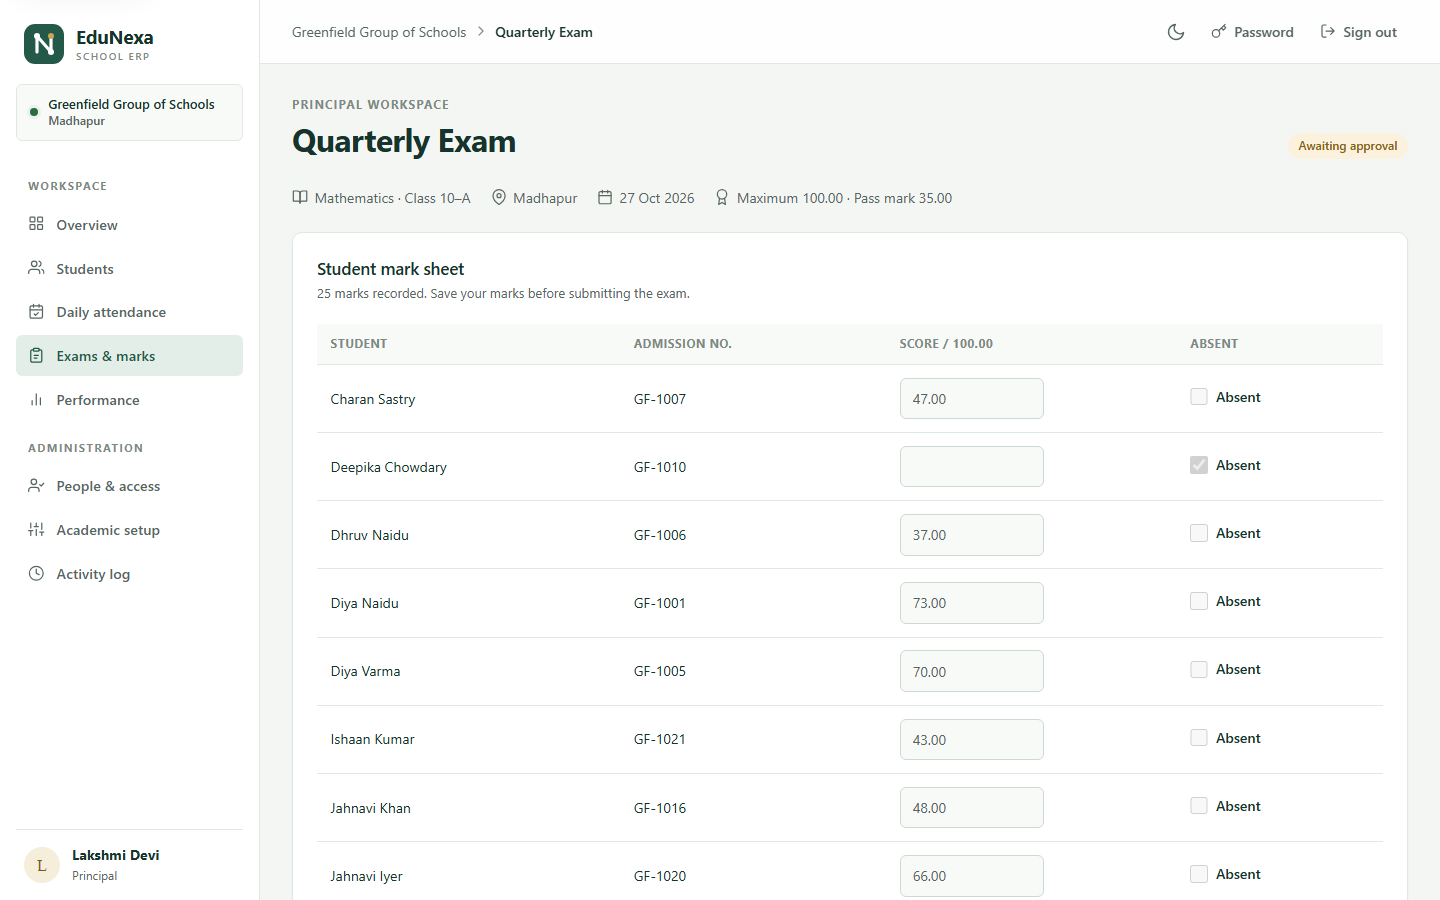
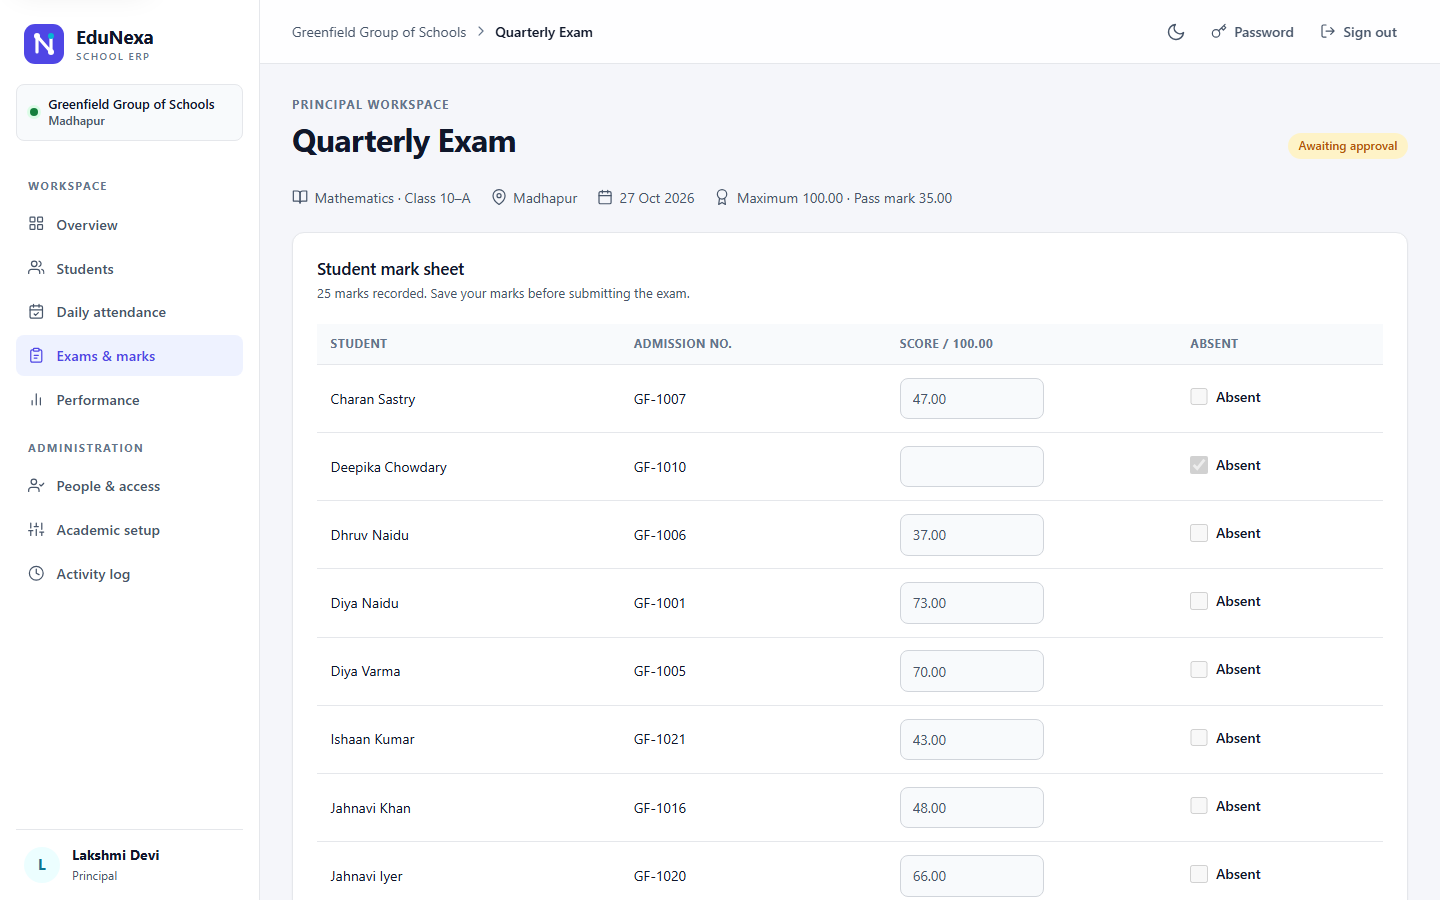
style(ui): switch to an indigo, slate and cyan palette
The green-and-gold theme read as dated. Because every colour lives in
static/css/tokens.css, the new palette is mostly a token swap:

- Indigo primary (#4f46e5 light, #818cf8 dark), slate neutrals, a cyan
  accent, and Tailwind-style status colours for success, warning,
  danger and info. Dark mode uses a deep slate background (#0b0f19).
- Headings use the system sans-serif instead of a light serif, with
  heavier weight and tighter letter-spacing.
- Sign-in panel: an indigo gradient with a white logo tile and cyan
  accents. The favicon and print colours follow.
- README screenshots refreshed; the DESIGN.md design-system note updated.

No template or Python changes. Tests: 81 passed, 2 PostgreSQL-only skipped.

diff --git a/static/css/tokens.css b/static/css/tokens.css
@@ -1,121 +1,121 @@
 /* Design tokens: every colour, font, radius and shadow used by EduNexa.
    Dark mode redefines only these values, so components never need their own dark rules.
-   The theme follows the operating system unless the person picks one (html[data-theme]). */
+   The theme follows the operating system unless the person picks one (html[data-theme]).
+   Palette: indigo for actions, slate neutrals, a cyan accent. */
 
 :root {
   color-scheme: light;
 
   --font-sans: system-ui, -apple-system, "Segoe UI", Roboto, "Helvetica Neue", Arial, sans-serif;
-  --font-display: "Iowan Old Style", "Palatino Linotype", Palatino, Georgia, serif;
+  --font-display: var(--font-sans);
   --font-mono: ui-monospace, "Cascadia Code", "SFMono-Regular", Consolas, monospace;
 
-  --radius-sm: 6px;
-  --radius-md: 10px;
+  --radius-sm: 8px;
+  --radius-md: 12px;
   --radius-lg: 16px;
   --radius-pill: 999px;
   --sidebar-width: 260px;
   --topbar-height: 64px;
 
-  --color-bg: #f4f6f4;
+  --color-bg: #f5f6fa;
   --color-surface: #ffffff;
-  --color-surface-muted: #f8faf8;
-  --color-surface-tint: #edf3ef;
-  --color-border: #e1e8e3;
-  --color-border-strong: #cdd8d0;
-  --color-text: #17342c;
-  --color-text-muted: #56675f;
-  --color-text-subtle: #7b8a82;
+  --color-surface-muted: #f8fafc;
+  --color-surface-tint: #eef2ff;
+  --color-border: #e5e7eb;
+  --color-border-strong: #d1d5db;
+  --color-text: #0f172a;
+  --color-text-muted: #475569;
+  --color-text-subtle: #64748b;
 
-  --color-primary: #24594a;
-  --color-primary-hover: #1a4639;
-  --color-primary-soft: #e2eee7;
+  --color-primary: #4f46e5;
+  --color-primary-hover: #4338ca;
+  --color-primary-soft: #eef2ff;
   --color-on-primary: #ffffff;
-  --color-accent: #c9a65a;
-  --color-accent-soft: #f5eedb;
-  --color-accent-strong: #7a5c1c;
-  --color-focus: #b0852a;
+  --color-accent: #06b6d4;
+  --color-accent-soft: #ecfeff;
+  --color-accent-strong: #0e7490;
+  --color-focus: #6366f1;
 
-  --color-success: #2c6a42;
-  --color-success-soft: #e6f3ea;
-  --color-warning: #85600f;
-  --color-warning-soft: #fbf1dc;
-  --color-danger: #a6382a;
-  --color-danger-soft: #fdece8;
-  --color-info: #3d5a82;
-  --color-info-soft: #e9eff8;
+  --color-success: #15803d;
+  --color-success-soft: #dcfce7;
+  --color-warning: #b45309;
+  --color-warning-soft: #fef3c7;
+  --color-danger: #b91c1c;
+  --color-danger-soft: #fee2e2;
+  --color-info: #1d4ed8;
+  --color-info-soft: #dbeafe;
 
-  /* The sign-in story panel keeps the brand green in both themes. */
-  --color-brand-panel: #1d493b;
-  --color-brand-panel-text: #f3f6ee;
-  --color-brand-panel-muted: #b6cab9;
+  /* The sign-in story panel keeps the deep indigo brand colour in both themes. */
+  --color-brand-panel: #1e1b4b;
+  --color-brand-panel-end: #312e81;
+  --color-brand-panel-text: #eef2ff;
+  --color-brand-panel-muted: #c7d2fe;
 
-  --shadow-sm: 0 1px 2px rgb(16 40 32 / 0.05);
-  --shadow-md: 0 10px 30px rgb(16 40 32 / 0.08);
-  --shadow-overlay: 0 24px 64px rgb(10 30 24 / 0.28);
+  --shadow-sm: 0 1px 2px rgb(15 23 42 / 0.06);
+  --shadow-md: 0 10px 30px rgb(15 23 42 / 0.08);
+  --shadow-overlay: 0 24px 64px rgb(15 23 42 / 0.28);
 }
 
 @media (prefers-color-scheme: dark) {
   :root:not([data-theme="light"]) {
     color-scheme: dark;
-    --color-bg: #0d1512;
-    --color-surface: #131e1a;
-    --color-surface-muted: #17231f;
-    --color-surface-tint: #1a2b24;
-    --color-border: #24342d;
-    --color-border-strong: #33463c;
-    --color-text: #e3ece7;
-    --color-text-muted: #a3b3aa;
-    --color-text-subtle: #7f9087;
-    --color-primary: #74c49f;
-    --color-primary-hover: #93d4b4;
-    --color-primary-soft: #1c3a2f;
-    --color-on-primary: #0a1a13;
-    --color-accent: #d9bc77;
-    --color-accent-soft: #352e1d;
-    --color-accent-strong: #ecd49c;
-    --color-focus: #e3c57f;
-    --color-success: #82d3a1;
-    --color-success-soft: #163225;
-    --color-warning: #e8c46d;
-    --color-warning-soft: #372d15;
-    --color-danger: #f29482;
-    --color-danger-soft: #3b1c17;
-    --color-info: #a0bbe4;
-    --color-info-soft: #1b2637;
-    --color-brand-panel: #13322a;
-    --shadow-sm: 0 1px 2px rgb(0 0 0 / 0.35);
-    --shadow-md: 0 10px 30px rgb(0 0 0 / 0.4);
+    --color-bg: #0b0f19;
+    --color-surface: #111827;
+    --color-surface-muted: #161e2e;
+    --color-surface-tint: #1c2140;
+    --color-border: #1f2937;
+    --color-border-strong: #374151;
+    --color-text: #f1f5f9;
+    --color-text-muted: #94a3b8;
+    --color-text-subtle: #64748b;
+    --color-primary: #818cf8;
+    --color-primary-hover: #a5b4fc;
+    --color-primary-soft: #232659;
+    --color-on-primary: #0b0f19;
+    --color-accent: #22d3ee;
+    --color-accent-soft: #083344;
+    --color-accent-strong: #67e8f9;
+    --color-focus: #a5b4fc;
+    --color-success: #4ade80;
+    --color-success-soft: #052e16;
+    --color-warning: #fbbf24;
+    --color-warning-soft: #422006;
+    --color-danger: #f87171;
+    --color-danger-soft: #450a0a;
+    --color-info: #60a5fa;
+    --color-info-soft: #172554;
+    --shadow-sm: 0 1px 2px rgb(0 0 0 / 0.4);
+    --shadow-md: 0 10px 30px rgb(0 0 0 / 0.45);
   }
 }
 
 :root[data-theme="dark"] {
   color-scheme: dark;
-  --color-bg: #0d1512;
-  --color-surface: #131e1a;
-  --color-surface-muted: #17231f;
-  --color-surface-tint: #1a2b24;
-  --color-border: #24342d;
-  --color-border-strong: #33463c;
-  --color-text: #e3ece7;
-  --color-text-muted: #a3b3aa;
-  --color-text-subtle: #7f9087;
-  --color-primary: #74c49f;
-  --color-primary-hover: #93d4b4;
-  --color-primary-soft: #1c3a2f;
-  --color-on-primary: #0a1a13;
-  --color-accent: #d9bc77;
-  --color-accent-soft: #352e1d;
-  --color-accent-strong: #ecd49c;
-  --color-focus: #e3c57f;
-  --color-success: #82d3a1;
-  --color-success-soft: #163225;
-  --color-warning: #e8c46d;
-  --color-warning-soft: #372d15;
-  --color-danger: #f29482;
-  --color-danger-soft: #3b1c17;
-  --color-info: #a0bbe4;
-  --color-info-soft: #1b2637;
-  --color-brand-panel: #13322a;
-  --shadow-sm: 0 1px 2px rgb(0 0 0 / 0.35);
-  --shadow-md: 0 10px 30px rgb(0 0 0 / 0.4);
+  --color-bg: #0b0f19;
+  --color-surface: #111827;
+  --color-surface-muted: #161e2e;
+  --color-surface-tint: #1c2140;
+  --color-border: #1f2937;
+  --color-border-strong: #374151;
+  --color-text: #f1f5f9;
+  --color-text-muted: #94a3b8;
+  --color-text-subtle: #64748b;
+  --color-primary: #818cf8;
+  --color-primary-hover: #a5b4fc;
+  --color-primary-soft: #232659;
+  --color-on-primary: #0b0f19;
+  --color-accent: #22d3ee;
+  --color-accent-soft: #083344;
+  --color-accent-strong: #67e8f9;
+  --color-focus: #a5b4fc;
+  --color-success: #4ade80;
+  --color-success-soft: #052e16;
+  --color-warning: #fbbf24;
+  --color-warning-soft: #422006;
+  --color-danger: #f87171;
+  --color-danger-soft: #450a0a;
+  --color-info: #60a5fa;
+  --color-info-soft: #172554;
+  --shadow-sm: 0 1px 2px rgb(0 0 0 / 0.4);
+  --shadow-md: 0 10px 30px rgb(0 0 0 / 0.45);
 }

diff --git a/static/css/layout.css b/static/css/layout.css
@@ -135,7 +135,7 @@
   gap: 2.5rem;
   padding: 3rem;
   overflow: hidden;
-  background: var(--color-brand-panel);
+  background: linear-gradient(150deg, var(--color-brand-panel), var(--color-brand-panel-end));
   color: var(--color-brand-panel-text);
 }
 
@@ -154,10 +154,10 @@
 .auth-story h1 {
   margin: 1rem 0 1.25rem;
   font-family: var(--font-display);
-  font-size: clamp(2.5rem, 1.4rem + 3.2vw, 4.4rem);
-  font-weight: 400;
+  font-size: clamp(2.4rem, 1.4rem + 3vw, 4rem);
+  font-weight: 700;
   line-height: 1.08;
-  letter-spacing: -0.01em;
+  letter-spacing: -0.035em;
 }
 
 .auth-story h1 span,
@@ -166,7 +166,7 @@
 }
 
 .auth-story h1 em {
-  color: #dcc387;
+  color: #67e8f9;
 }
 
 .auth-story-mark {
@@ -302,14 +302,14 @@
     color-scheme: light;
     --color-bg: #ffffff;
     --color-surface: #ffffff;
-    --color-surface-muted: #f6f6f6;
-    --color-surface-tint: #f1f4f2;
+    --color-surface-muted: #f8fafc;
+    --color-surface-tint: #eef2ff;
     --color-border: #d9d9d9;
     --color-border-strong: #c4c4c4;
     --color-text: #111111;
     --color-text-muted: #444444;
     --color-text-subtle: #666666;
-    --color-primary: #24594a;
+    --color-primary: #4f46e5;
     --shadow-sm: none;
   }
 

diff --git a/static/css/components.css b/static/css/components.css
@@ -75,9 +75,9 @@
 }
 
 .auth-story .brand-mark {
-  --brand-mark-bg: #d4b879;
-  --brand-mark-fg: #1d493b;
-  --brand-mark-accent: #1d493b;
+  --brand-mark-bg: #ffffff;
+  --brand-mark-fg: #312e81;
+  --brand-mark-accent: #06b6d4;
 }
 
 /* Sidebar */
@@ -177,7 +177,8 @@
   background: var(--color-accent-soft);
   color: var(--color-accent-strong);
   font-family: var(--font-display);
-  font-size: 1rem;
+  font-size: 0.95rem;
+  font-weight: 700;
 }
 
 .avatar-large {
@@ -857,9 +858,9 @@ a.list-item:hover strong {
 .welcome h2 {
   margin: 0.15rem 0 0.4rem;
   font-family: var(--font-display);
-  font-size: clamp(1.6rem, 1.2rem + 1vw, 2.15rem);
-  font-weight: 400;
-  letter-spacing: -0.01em;
+  font-size: clamp(1.5rem, 1.2rem + 0.9vw, 1.95rem);
+  font-weight: 700;
+  letter-spacing: -0.03em;
 }
 
 .welcome p {

diff --git a/docs/DESIGN.md b/docs/DESIGN.md
@@ -264,7 +264,7 @@ Cash and UPI paid at the school counter go through the same service, so receipts
 | Parent | Child switcher, attendance, latest results, fees due with **Pay now**, announcements |
 | Student | Timetable, attendance, results, report cards, announcements |
 
-**Design system.** The current green-and-gold look becomes the EduNexa identity, rebuilt as readable CSS:
+**Design system.** An indigo, slate and cyan palette with a system sans-serif font, rebuilt as readable CSS:
 - Design tokens (colours, spacing, radius, type), with light and dark themes.
 - Reusable components: stat card, data table with sorting, filters and pagination, status badge, modal, toast, empty state, form field.
 - An SVG logo and icons in place of the current text symbols.
